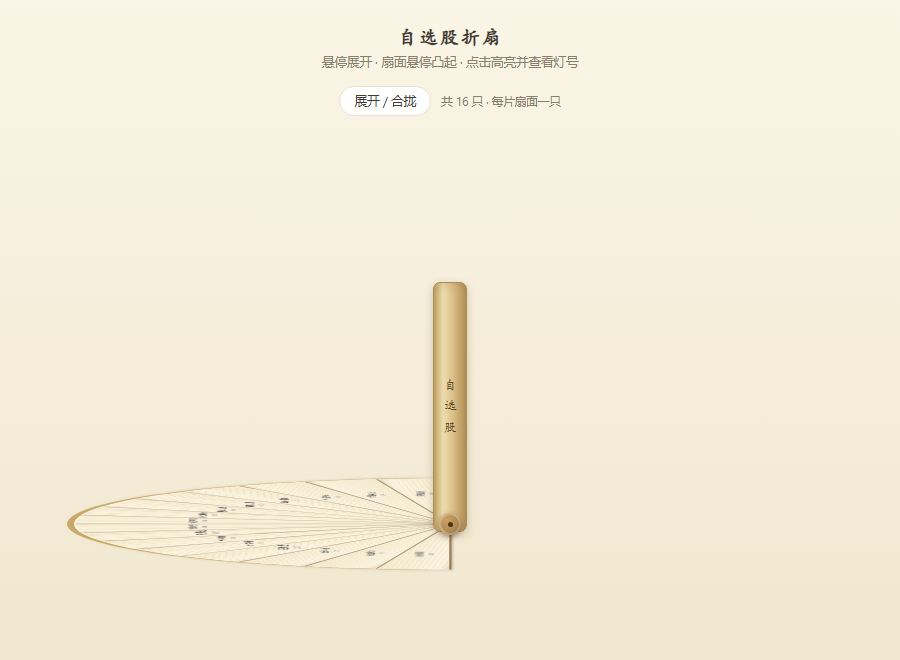
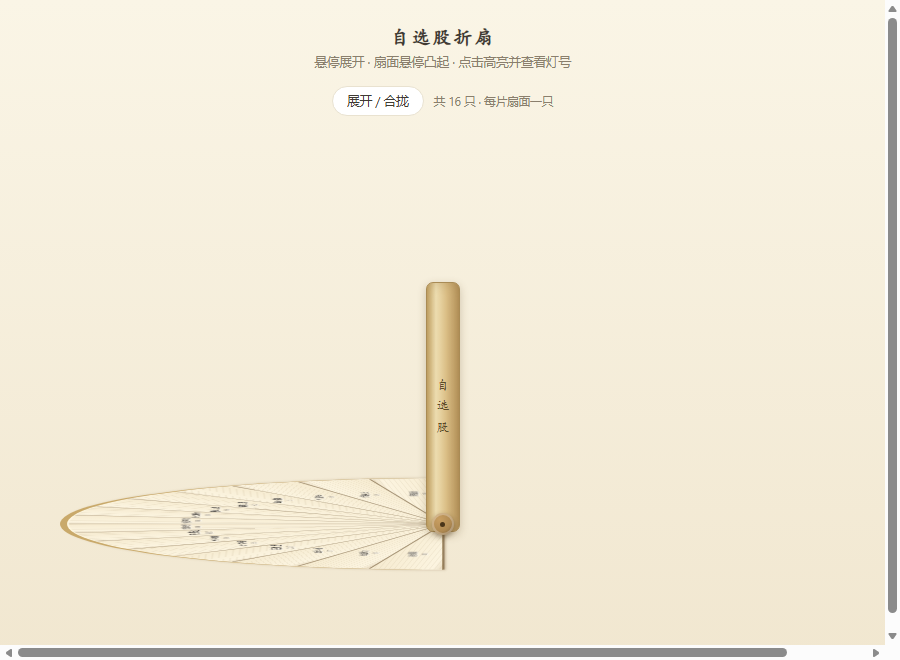
折扇 v4：悬停/选中叶片突起，突出部分自带圆弧包边

diff --git a/docs/previews/fan-demo-v4.html b/docs/previews/fan-demo-v4.html
@@ -74,6 +74,19 @@ h1{font-family:"STKaiti","KaiTi",serif; font-size:19px; font-weight:600; letter-
 }
 .blade.sel::after{background:rgba(190,120,40,.26)}
 
+/* 叶片自身包边：悬停突起时沿外弧显示 */
+.blade-rim{
+  position:absolute; left:-380px; top:-342.5px; width:760px; height:380px;
+  border-radius:380px 380px 0 0;
+  border-top:6px solid #C9A96A;
+  box-shadow:
+    inset 0 1px 2px rgba(255,248,225,.75),
+    inset 0 -1px 0 rgba(120,85,35,.35),
+    0 2px 4px rgba(110,80,35,.30);
+  opacity:0; transition:opacity .15s; pointer-events:none;
+}
+.blade:hover .blade-rim, .blade.sel .blade-rim{opacity:1}
+
 /* 文字：正立居中，反向旋转抵消扇面 */
 .blade-text{
   position:absolute; left:253px; top:50%;
@@ -244,7 +257,6 @@ if (location.search.indexOf("open=1") !== -1){
   pinned = true;
   stage.classList.add("open");
 }
-
 // 扇骨：深色细条从中心向外辐射（N+1 条）
 for (let i = 0; i <= N; i++){
   const a = i * (180 / N) - 180;
@@ -275,9 +287,16 @@ STOCKS.forEach((s, i) => {
   const fs = Math.max(8, Math.min(16, Math.floor(44 / nmLen)));
   txt.innerHTML = `<span class="nm" style="font-size:${fs}px">${s[1]}</span>` +
                   `<span class="cd" style="font-size:${Math.max(6, fs - 3)}px">${s[0].slice(-4)}</span>`;
+  const rim = document.createElement("div");
+  rim.className = "blade-rim";
+  blade.appendChild(rim);
   blade.appendChild(txt);
   fan.appendChild(blade);
 });
+
+if (location.search.indexOf("demo=1") !== -1){
+  document.querySelectorAll(".blade")[0].classList.add("sel");
+}
 
 function select(i, blade){
   document.querySelectorAll(".blade.sel").forEach(b => b.classList.remove("sel"));
